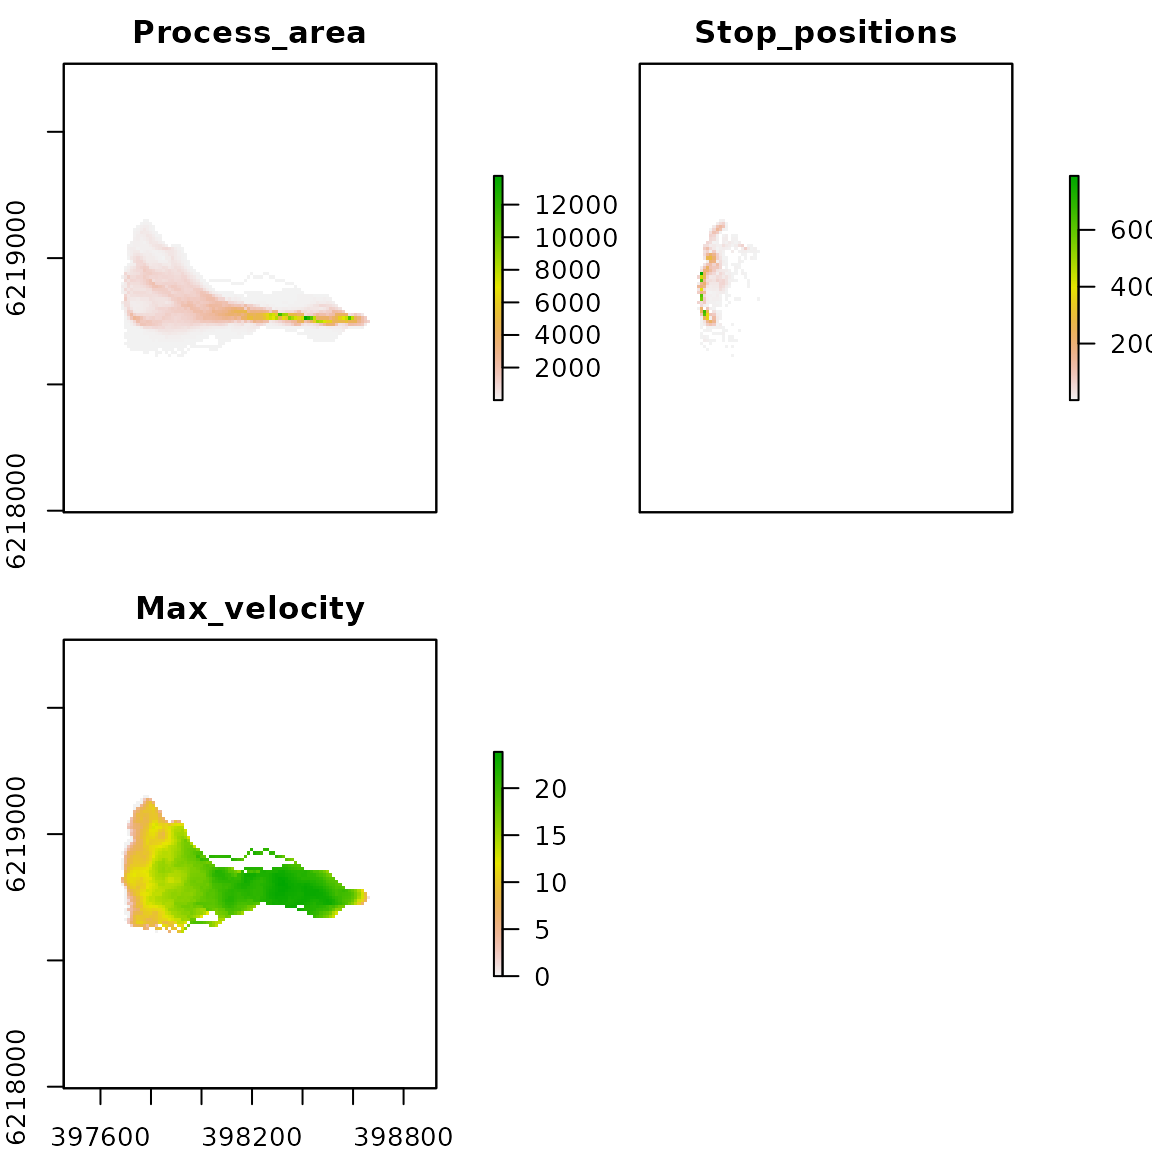
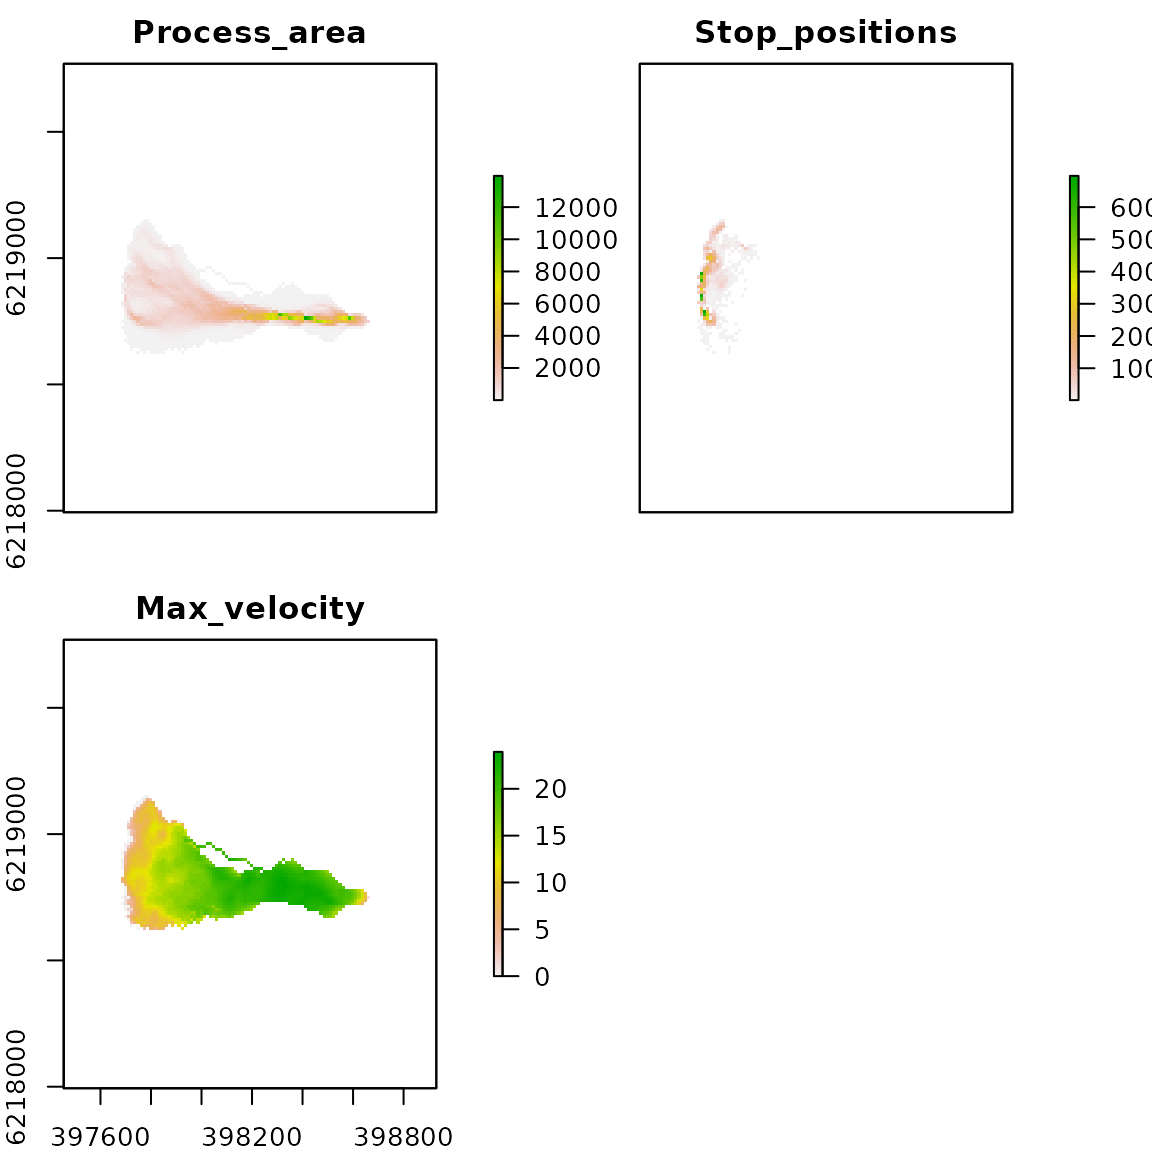
update

diff --git a/docs/articles/gpp_rw_pcm_single_optimization.html b/docs/articles/gpp_rw_pcm_single_optimization.html
@@ -81,7 +81,7 @@
       <h1 data-toc-skip>Optimizing runout simulation of a single event with the GPP tool in SAGA-GIS</h1>
                         <h4 class="author">Jason Goetz</h4>
             
-            <h4 class="date">2020-10-21</h4>
+            <h4 class="date">2020-10-22</h4>
       
       
       <div class="hidden name"><code>gpp_rw_pcm_single_optimization.Rmd</code></div>
@@ -156,7 +156,7 @@
                    gpp_iter <span class="op">=</span> <span class="fl">1000</span>, buffer_ext <span class="op">=</span> <span class="fl">500</span>, buffer_source <span class="op">=</span> <span class="fl">50</span>,
                    plot_eval <span class="op">=</span> <span class="cn">TRUE</span><span class="op">)</span></pre></div>
 <p><img src="gpp_rw_pcm_single_optimization_files/figure-html/unnamed-chunk-3-1.png" width="576"></p>
-<pre><code>#&gt; [1] 0.9222799</code></pre>
+<pre><code>#&gt; [1] 0.922406</code></pre>
 </div>
 <div id="gpp-random-walk-grid-search-optimization" class="section level3">
 <h3 class="hasAnchor">
@@ -186,29 +186,29 @@
 <pre><code>#&gt; , , 1.5
 #&gt; 
 #&gt;          1.3      2.15         3
-#&gt; 20 0.5849430 0.6088035 0.6084820
-#&gt; 30 0.6003607 0.8677720 0.9219063
-#&gt; 40 0.7980581 0.9476545 0.9519474
+#&gt; 20 0.5849419 0.6100283 0.6073615
+#&gt; 30 0.6016978 0.8666620 0.9219590
+#&gt; 40 0.7994175 0.9480116 0.9517892
 #&gt; 
 #&gt; , , 1.75
 #&gt; 
 #&gt;          1.3      2.15         3
-#&gt; 20 0.5849386 0.6073772 0.6084774
-#&gt; 30 0.6016273 0.8703304 0.9205813
-#&gt; 40 0.7974102 0.9476391 0.9510544
+#&gt; 20 0.5849383 0.6087682 0.6072055
+#&gt; 30 0.6003197 0.8701569 0.9221337
+#&gt; 40 0.7986107 0.9476871 0.9515544
 #&gt; 
 #&gt; , , 2
 #&gt; 
 #&gt;          1.3      2.15         3
-#&gt; 20 0.5849467 0.6074758 0.6085356
-#&gt; 30 0.6028820 0.8701352 0.9223522
-#&gt; 40 0.7982756 0.9472755 0.9515768</code></pre>
+#&gt; 20 0.5849456 0.6086816 0.6073205
+#&gt; 30 0.6015902 0.8702400 0.9219788
+#&gt; 40 0.7995276 0.9473996 0.9520131</code></pre>
 <p>And find the parameter set that resulted in the highest AUROC score.</p>
 <div class="sourceCode" id="cb12"><pre class="downlit">
 <span class="va">rw_opt_single</span> <span class="op">&lt;-</span> <span class="fu"><a href="../reference/rwGetOpt_single.html">rwGetOpt_single</a></span><span class="op">(</span><span class="va">rw_gridsearch</span><span class="op">)</span>
 <span class="va">rw_opt_single</span></pre></div>
 <pre><code>#&gt;   rw_slp_opt rw_exp_opt rw_per_opt  rw_auroc
-#&gt; 1         40          3        1.5 0.9519474</code></pre>
+#&gt; 1         40          3          2 0.9520131</code></pre>
 </div>
 <div id="gpp-pcm-model-simulation-runout-distance" class="section level3">
 <h3 class="hasAnchor">
@@ -224,7 +224,7 @@
 <div class="sourceCode" id="cb15"><pre class="downlit">
 <span class="co"># Runout distance relative error</span>
 <span class="va">pcm</span><span class="op">$</span><span class="va">length.relerr</span></pre></div>
-<pre><code>#&gt; [1] 0.008077308</code></pre>
+<pre><code>#&gt; [1] 0.008750399</code></pre>
 <div class="sourceCode" id="cb17"><pre class="downlit">
 <span class="co"># Plot GPP PCM runout modelling ouputs</span>
 <span class="va">gpp_output</span> <span class="op">&lt;-</span> <span class="fu"><a href="https://rdrr.io/pkg/raster/man/stack.html">stack</a></span><span class="op">(</span><span class="va">pcm</span><span class="op">$</span><span class="va">gpp.parea</span>, <span class="va">pcm</span><span class="op">$</span><span class="va">gpp.stop</span>, <span class="va">pcm</span><span class="op">$</span><span class="va">gpp.maxvel</span><span class="op">)</span>
@@ -260,8 +260,8 @@
 
 <span class="co"># Get optimal parameters</span>
 <span class="fu"><a href="../reference/pcmGetOpt_single.html">pcmGetOpt_single</a></span><span class="op">(</span><span class="va">pcm_gridsearch</span><span class="op">)</span></pre></div>
-<pre><code>#&gt;   pcm_mu pcm_md      relerr     auroc
-#&gt; 1   0.15    100 0.008077308 0.9585431</code></pre>
+<pre><code>#&gt;   pcm_mu pcm_md       relerr     auroc
+#&gt; 1   0.15    100 0.0006461131 0.9590031</code></pre>
 </div>
   </div>
 

diff --git a/docs/index.html b/docs/index.html
@@ -84,16 +84,16 @@
 <p><strong>Description</strong></p>
 <p>This is an R package for optimizing mass movement runout models using the random walk and PCM model compenets of the <a href="https://gmd.copernicus.org/articles/10/3309/2017/">Gravitational Process Path (GPP)</a> modeling tool in <a href="http://www.saga-gis.org/en/index.html">SAGA-GIS</a>.</p>
 <p>These functions were developed for the following paper:</p>
-<p>Goetz et al…</p>
+<p>Goetz et al. Optimizing debris-flow runout models for regional susceptibility mapping. Submitted (2020).</p>
 <p><img src="https://jngtz.github.io/map.displ.r/articles/2_Visualizing_surface_displacements_files/figure-html/unnamed-chunk-4-1.png" width="500"></p>
 <p><strong>Installation</strong></p>
 <p>You can install this development version of runout.opt with:</p>
 <div class="sourceCode" id="cb1"><pre class="downlit">
 <span class="fu">devtools</span><span class="fu">::</span><span class="fu"><a href="https://devtools.r-lib.org//reference/remote-reexports.html">install_github</a></span><span class="op">(</span><span class="st">"jngtz/runout.opt"</span><span class="op">)</span></pre></div>
 <p><strong>Examples</strong></p>
-<p><a href="https://jngtz.github.io/map.displ.r/articles/2_Visualizing_surface_displacements.html">Optimizating for a an individual runout event</a></p>
-<p><a href="https://jngtz.github.io/map.displ.r/articles/1_BUnwarpJ_image_registration.html">Regionally optimizing and validating runout models</a></p>
-<p><a href="https://jngtz.github.io/map.displ.r/articles/1_BUnwarpJ_image_registration.html">Mapping regional runout susceptibility from predicted source areas</a></p>
+<p><a href="https://jngtz.github.io/runout.opt/articles/gpp_rw_pcm_single_optimization.html">Optimizating for a an individual runout event</a></p>
+<p><a href="https://jngtz.github.io/runout.opt/articles/gpp_rw_pcm_regional_optimization.html">Regionally optimizing and validating runout models</a></p>
+<p><a href="https://jngtz.github.io/runout.opt/articles/gpp_rw_pcm_apply_regionally.html">Mapping regional runout susceptibility from predicted source areas</a></p>
 </div>
   </div>
 

diff --git a/docs/articles/gpp_rw_pcm_regional_optimization.html b/docs/articles/gpp_rw_pcm_regional_optimization.html
@@ -81,7 +81,7 @@
       <h1 data-toc-skip>Regional optimizaiton of runout with the GPP tool in SAGA-GIS</h1>
                         <h4 class="author">Jason Goetz</h4>
             
-            <h4 class="date">2020-10-21</h4>
+            <h4 class="date">2020-10-22</h4>
       
       
       <div class="hidden name"><code>gpp_rw_pcm_regional_optimization.Rmd</code></div>

diff --git a/README.md b/README.md
@@ -8,7 +8,7 @@ tool in [SAGA-GIS](http://www.saga-gis.org/en/index.html).
 
 These functions were developed for the following paper:
 
-Goetz et al...
+Goetz et al. Optimizing debris-flow runout models for regional susceptibility mapping. Submitted (2020). 
 
 <img src="https://jngtz.github.io/map.displ.r/articles/2_Visualizing_surface_displacements_files/figure-html/unnamed-chunk-4-1.png" width="500">
 
@@ -22,8 +22,8 @@ devtools::install_github("jngtz/runout.opt")
 
 **Examples**
 
-[Optimizating for a an individual runout event](https://jngtz.github.io/map.displ.r/articles/2_Visualizing_surface_displacements.html)
+[Optimizating for a an individual runout event](https://jngtz.github.io/runout.opt/articles/gpp_rw_pcm_single_optimization.html)
 
-[Regionally optimizing and validating runout models](https://jngtz.github.io/map.displ.r/articles/1_BUnwarpJ_image_registration.html)
+[Regionally optimizing and validating runout models](https://jngtz.github.io/runout.opt/articles/gpp_rw_pcm_regional_optimization.html)
 
-[Mapping regional runout susceptibility from predicted source areas](https://jngtz.github.io/map.displ.r/articles/1_BUnwarpJ_image_registration.html)
+[Mapping regional runout susceptibility from predicted source areas](https://jngtz.github.io/runout.opt/articles/gpp_rw_pcm_apply_regionally.html)
